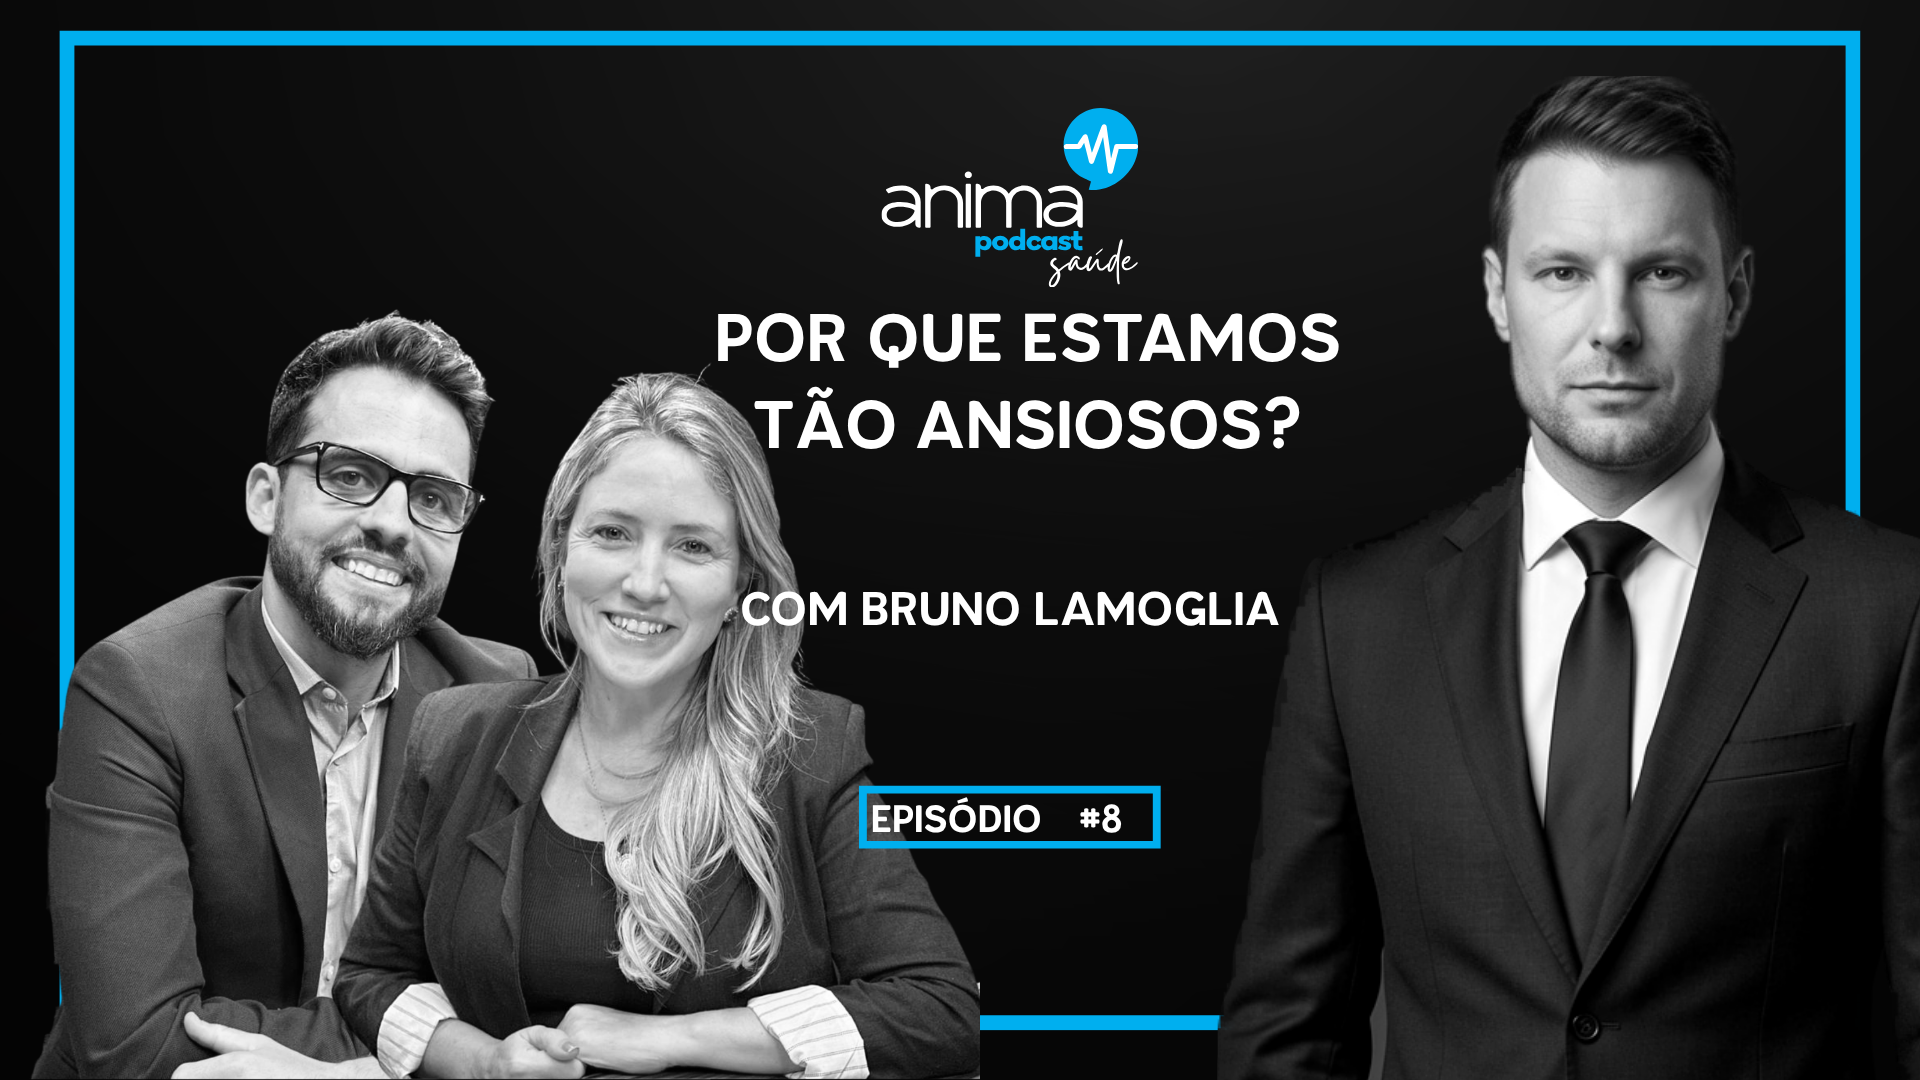
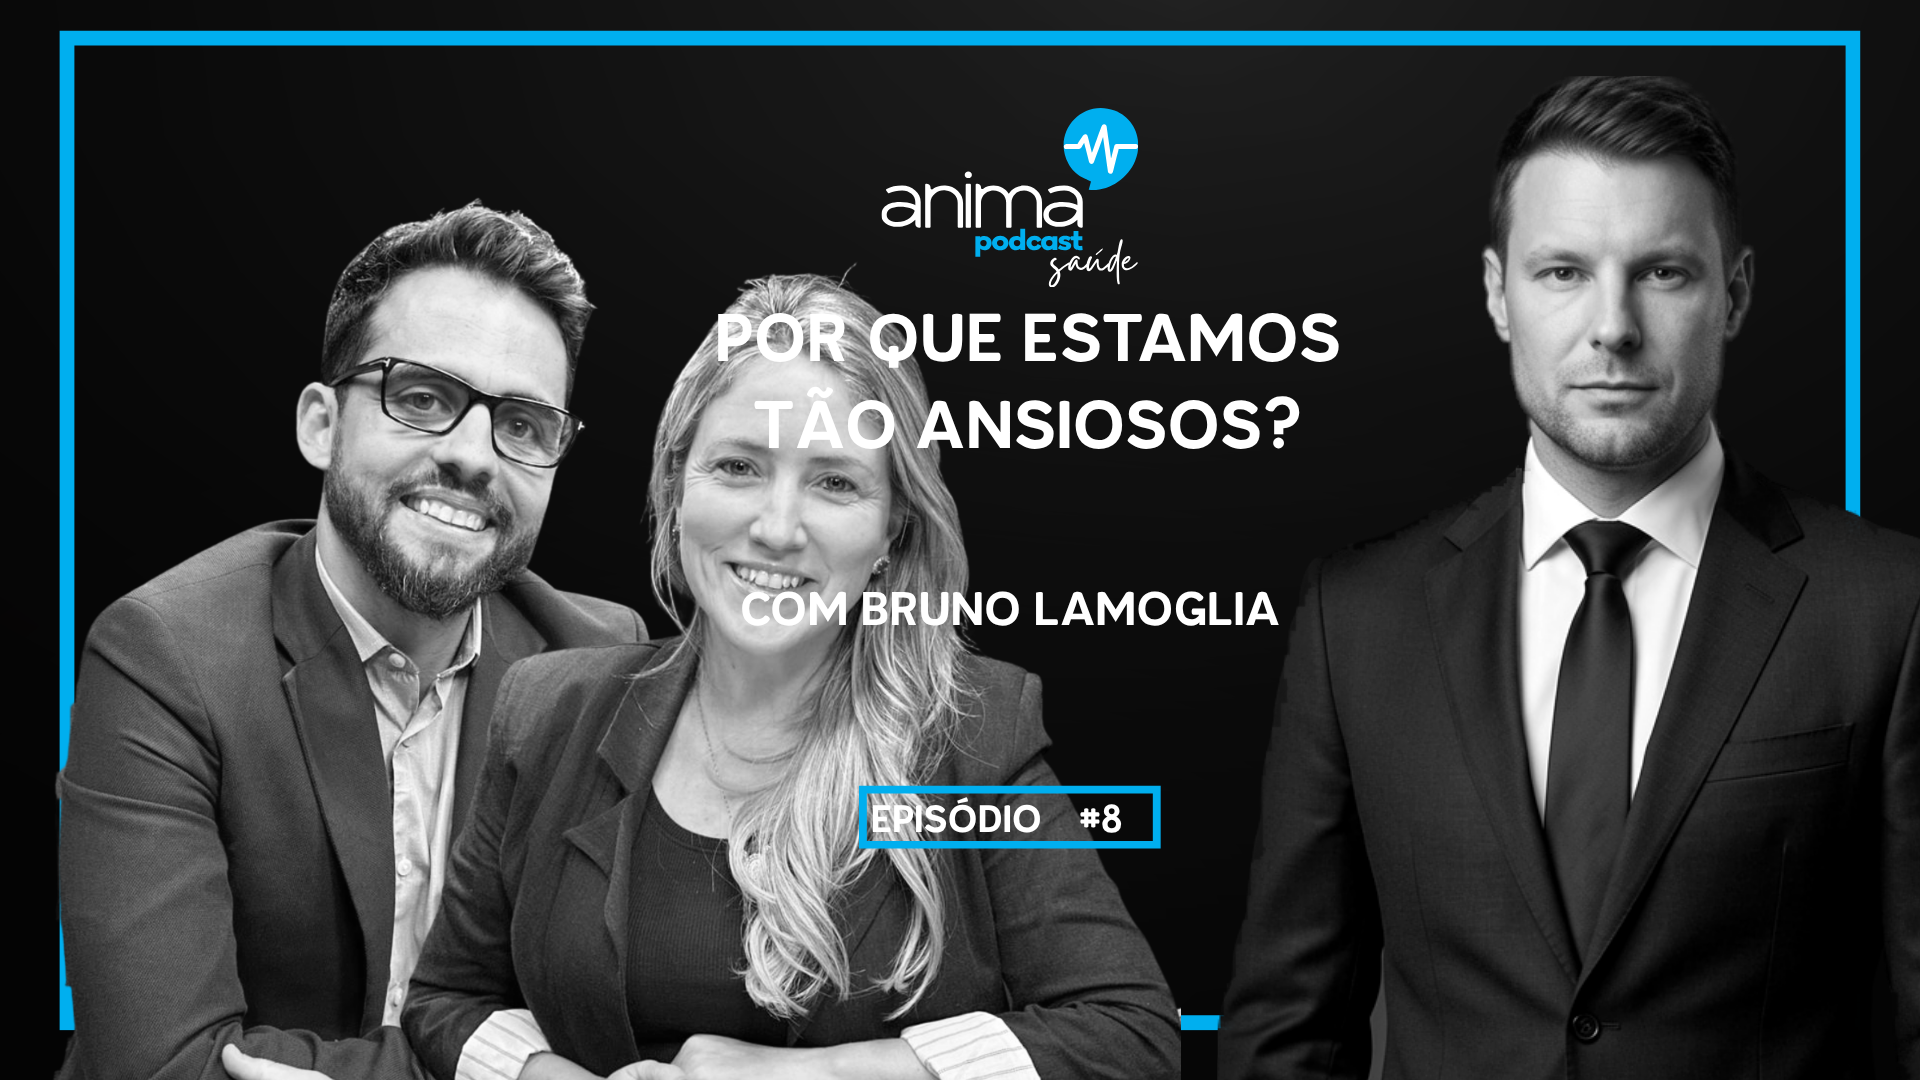
Saude: casal na altura do modelo (5 aprovacao)

Changed region(s): [[0.0, 0.1833, 0.625, 1.0]]

diff --git a/review/saude/index.html b/review/saude/index.html
@@ -14,9 +14,9 @@ figcaption b{color:var(--acc)}figcaption span{color:var(--muted);font-size:12px}
 <header><h1>Anima <span>Saúde</span> — casal de apresentadores (5 para aprovação)</h1>
 <p>Novo casal do Anima Saúde inserido à esquerda (na frente da borda azul, atrás do texto), no mesmo padrão dos demais. Cópia de trabalho DAHT5dd2JhQ; o design original DAHRWqXOUCY foi preservado. Se aprovar, aplico aos 32 episódios do Saúde.</p></header>
 <main>
-<figure><img src="e5.png?v=2" alt="#5"><figcaption><b>#5</b><br><span>Cólicas e refluxos do bebê — com José Eduardo</span></figcaption></figure>
-<figure><img src="e7.png?v=2" alt="#7"><figcaption><b>#7</b><br><span>Sinais de alerta do autismo — com Angélica Ávila</span></figcaption></figure>
-<figure><img src="e8.png?v=2" alt="#8"><figcaption><b>#8</b><br><span>Por que estamos tão ansiosos? — com Bruno Lamoglia</span></figcaption></figure>
-<figure><img src="e9.png?v=2" alt="#9"><figcaption><b>#9</b><br><span>Medicina com propósito — com Gil Gabriel</span></figcaption></figure>
-<figure><img src="e10.png?v=2" alt="#10"><figcaption><b>#10</b><br><span>Como aliviar dores crônicas — com Leonardo Avila</span></figcaption></figure>
+<figure><img src="e5.png?v=3" alt="#5"><figcaption><b>#5</b><br><span>Cólicas e refluxos do bebê — com José Eduardo</span></figcaption></figure>
+<figure><img src="e7.png?v=3" alt="#7"><figcaption><b>#7</b><br><span>Sinais de alerta do autismo — com Angélica Ávila</span></figcaption></figure>
+<figure><img src="e8.png?v=3" alt="#8"><figcaption><b>#8</b><br><span>Por que estamos tão ansiosos? — com Bruno Lamoglia</span></figcaption></figure>
+<figure><img src="e9.png?v=3" alt="#9"><figcaption><b>#9</b><br><span>Medicina com propósito — com Gil Gabriel</span></figcaption></figure>
+<figure><img src="e10.png?v=3" alt="#10"><figcaption><b>#10</b><br><span>Como aliviar dores crônicas — com Leonardo Avila</span></figcaption></figure>
 </main>
